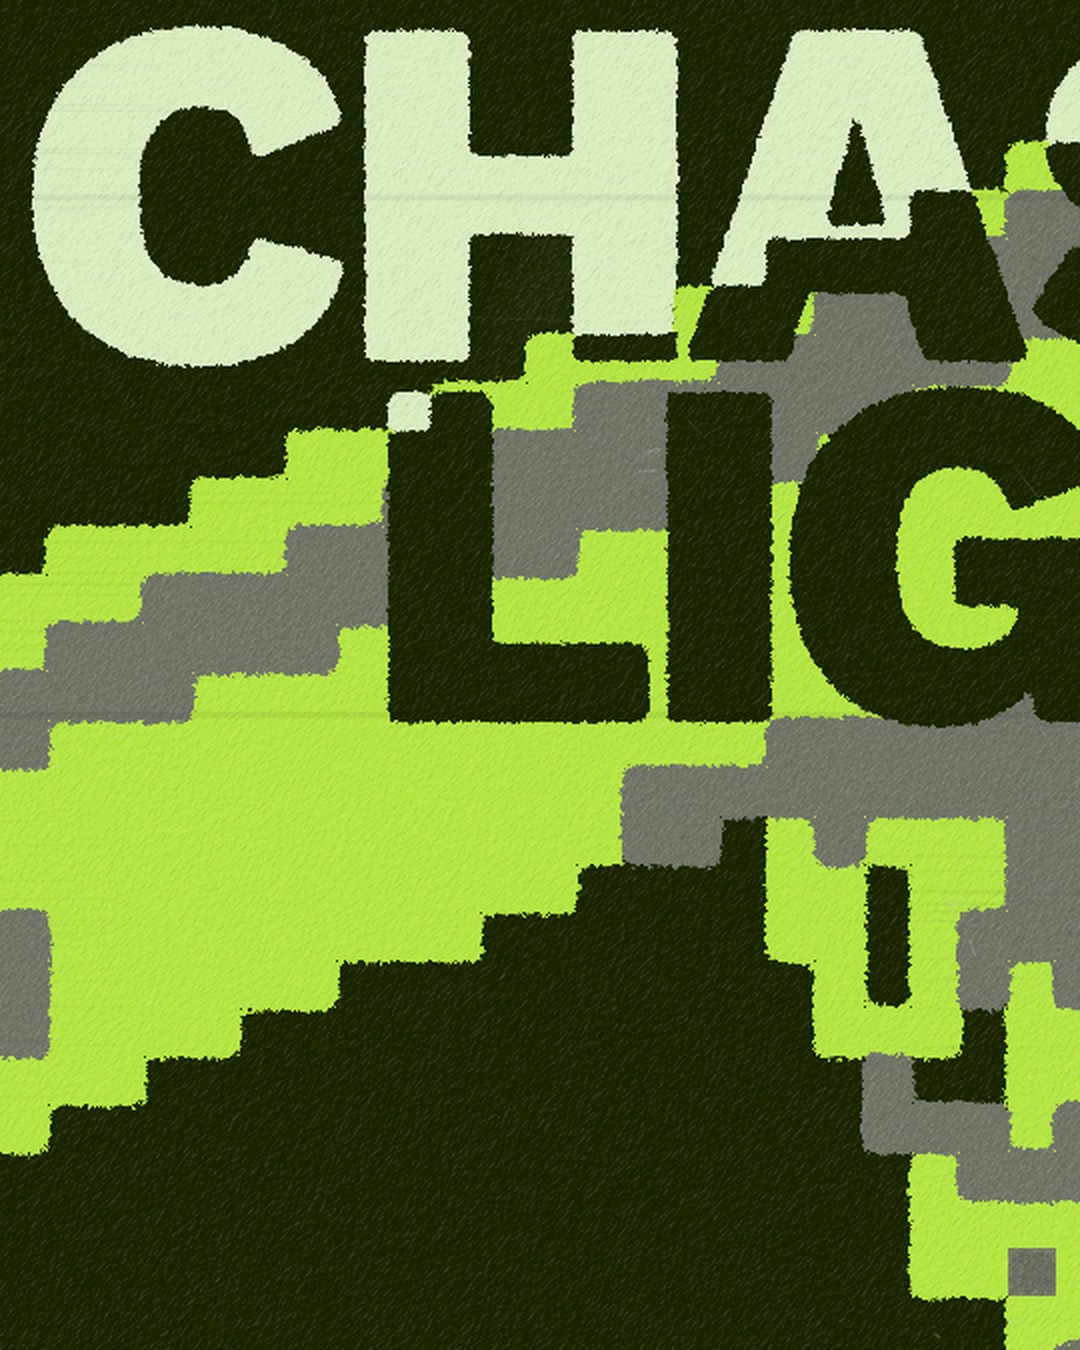
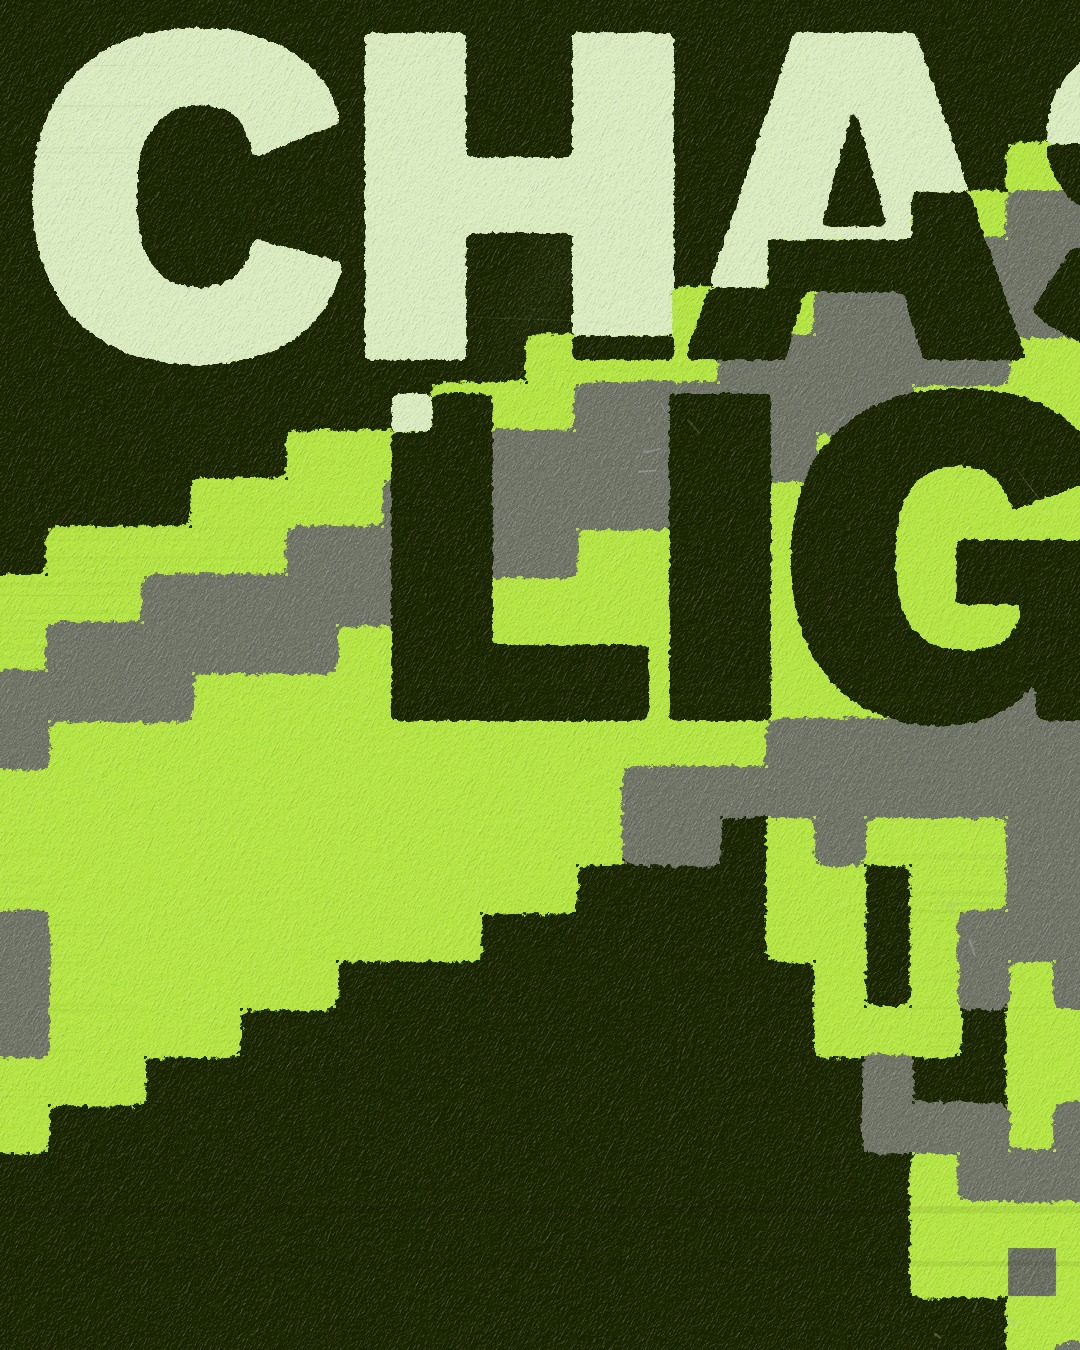
053 Chasing Light: E and A of NEAR no longer touch (headline printed with inkSafe's ink; inkSafe tests with headroom)
Claude-Session: https://claude.ai/code/session_01TfEQpNo4qtALfvjhWWQD7K

diff --git a/experiments/claude-posters/lab/lib.js b/experiments/claude-posters/lab/lib.js
@@ -683,7 +683,9 @@ function inkSafe(texts, o, maxW, ink = { preset: 'letterpress', wear: 0.35, spre
   // thin the ink (lower spread: the ink bleeds a fixed number of pixels, which matters more the smaller the type), and
   // only if that isn't enough, raise the minimum gap a little. Returns the lines AND the ink to print them with.
   const r = sameOptical8(texts, o, maxW);
-  const merged = (lines, k) => lines.some((t) => blobs(t.c) > blobs(IM.print(t.c, k.preset, { wear: k.wear, spread: k.spread, seed: 7 })));
+  // tested with a little more ink than will be used and on two seeds, so a different seed on the poster can't close a
+  // gap the test left open (053: the E and A of NEAR touched)
+  const merged = (lines, k) => lines.some((t) => [7, 55].some((sd) => blobs(t.c) > blobs(IM.print(t.c, k.preset, { wear: k.wear, spread: Math.min(0.9, k.spread * 1.25), seed: sd }))));
   let k = { ...ink };
   for (const sp of [ink.spread, 0.18, 0.12, 0.07, 0.03]) { k = { ...ink, spread: Math.min(ink.spread, sp) }; if (!merged(r.lines, k)) return { ...r, o, ink: k }; }
   let oo = { ...o };

diff --git a/experiments/claude-posters/lab/concepts/053-c3.motion.tpl.js b/experiments/claude-posters/lab/concepts/053-c3.motion.tpl.js
@@ -56,8 +56,8 @@ window.MOTION = async () => {
     block(g, sub.lines, M, yB - sq - 16, { ...t0, anchor: 'bottom' });
     block(g, ['(88) Days in', 'a Mercury year'], W - M, yB - sq - 16, { ...t0, align: 'right', anchor: 'bottom' });
     printAll(g, C, { seed: 551 });
-    printHead(g, outScope, C.type, C.finish, { bg: C.bg, seed: 55 });
-    printHead(g, inScope, C.knock, C.finish, { bg: C.scope, seed: 56 });
+    printHead(g, outScope, C.type, C.finish, { bg: C.bg, seed: 55, wear: HS.ink.wear, spread: HS.ink.spread });
+    printHead(g, inScope, C.knock, C.finish, { bg: C.scope, seed: 56, wear: HS.ink.wear, spread: HS.ink.spread });
     stock(g, C.stock, 55);
     return out;
   };

diff --git a/experiments/claude-posters/lab/concepts/053-c3.tpl.js b/experiments/claude-posters/lab/concepts/053-c3.tpl.js
@@ -78,8 +78,8 @@ window.POSTER = async () => {
     }
   }
   printAll(g, C, { seed: 551 });
-  printHead(g, outScope, C.type, C.finish, { bg: C.bg, seed: 55 });
-  printHead(g, inScope, C.knock, C.finish, { bg: C.scope, seed: 56 });
+  printHead(g, outScope, C.type, C.finish, { bg: C.bg, seed: 55, wear: HS.ink.wear, spread: HS.ink.spread });
+  printHead(g, inScope, C.knock, C.finish, { bg: C.scope, seed: 56, wear: HS.ink.wear, spread: HS.ink.spread });
   snap('printed', out);
   stock(g, C.stock, 55);
   snap('final', out);

diff --git a/experiments/claude-posters/STYLE.md b/experiments/claude-posters/STYLE.md
@@ -123,6 +123,9 @@ Round 1 (Nos. 049–052, 23 Nov 2026) feedback, turned into rules. These overrid
   fine, Ben refines them each morning. Check `log.md` and avoid repeating yesterday's mixes.
 
 ### Round 10 feedback (24 Nov 2026)
+- Print the headline with the ink `inkSafe` returns (pass `HS.ink`'s wear and spread to `printHead`), never the
+  finish's default: on 053 the default ink closed the gap between the E and A of NEAR. inkSafe now tests with a little
+  extra ink on two seeds, so a gap that survives the test survives the print.
 - **Ink must not run letters together, and the fix must not make the type gappy.** Set headlines with `inkSafe()`
   and print them with the ink it returns. It prints each line, counts the letters, and if any have merged it first
   **thins the ink** (the bleed is a fixed number of pixels, so it matters more as type gets smaller), and only then
